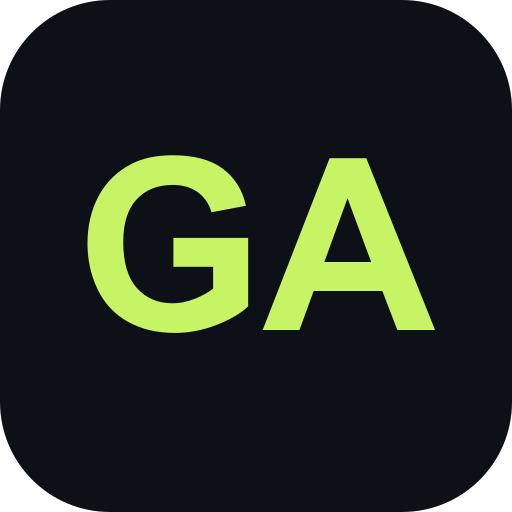
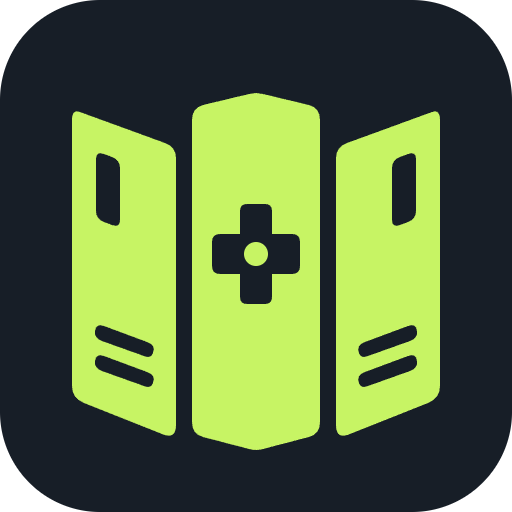
Apply Atlas Library branding across the Windows app and installer

diff --git a/components/desktop-settings.tsx b/components/desktop-settings.tsx
@@ -1,6 +1,7 @@
+import {BrandMark,BrandName} from '@/components/brand';
 import type {UpdateStatus} from '@/desktop/updater';
 import {useEffect,useState} from 'react';
-import {FolderOpen,Download,Upload,Gamepad2} from 'lucide-react';
+import {FolderOpen,Download,Upload} from 'lucide-react';
 import {Dialog,DialogContent,DialogTitle,DialogDescription} from '@/components/ui/dialog';
 import type {Preferences} from '@/desktop/preferences';
 export function DesktopSettings({open,onOpenChange,onReload}:{open:boolean;onOpenChange:(v:boolean)=>void;onReload:()=>Promise<void>}){
@@ -32,10 +33,11 @@ export function DesktopSettings({open,onOpenChange,onReload}:{open:boolean;onOpe
  }
  return <Dialog open={open||wizard||(!preferences&&!!error)} onOpenChange={v=>{if(!wizard&&!busy&&!updating)onOpenChange(v);}}>
   <DialogContent showCloseButton={!wizard} className={wizard?'editor settings-editor setup-wizard':'editor settings-editor'}>
+   <div className="settings-brand"><BrandMark size={40}/><BrandName/></div>
    <DialogTitle>{wizard?'Welcome to GameAtlas':'Settings'}</DialogTitle>
    <DialogDescription>{wizard?(step===0?'Start your own collection or bring an existing library.':'Choose how to protect your collection. You can change this in Settings later.'):'Manage local backups and restore your library.'}</DialogDescription>
    {wizard&&step===0?<div className="setup-choices">
-    <button className="setup-choice" disabled={busy||updating} onClick={()=>void start()}><Gamepad2/><strong>Start a new library</strong><span>Begin with an empty game collection.</span></button>
+    <button className="setup-choice" disabled={busy||updating} onClick={()=>void start()}><BrandMark/><strong>Start a new library</strong><span>Begin with an empty game collection.</span></button>
     <button className="setup-choice" disabled={busy||updating} onClick={()=>void importLibrary()}><Upload/><strong>Import a GameAtlas library</strong><span>Choose a complete backup or an older JSON export.</span></button>
    </div>:preferences&&<>
     <div className="settings-section">

diff --git a/desktop/main.ts b/desktop/main.ts
@@ -146,9 +146,13 @@ app.whenReady().then(async()=>{
  if(smoke){
   try{
    await new Promise(r=>setTimeout(r,1500));
+   mkdirSync(join(app.getPath('temp'),'gameatlas-verification'),{recursive:true});
+   writeFileSync(join(app.getPath('temp'),'gameatlas-verification','welcome.png'),(await window.webContents.capturePage()).toPNG());
    await window.webContents.executeJavaScript(`(async()=>{
     const wait=()=>new Promise(r=>setTimeout(r,200));
     const lib=(await window.gameAtlas.request('/api/library','GET')).data;
+    const marks=[...document.querySelectorAll('img.brand-mark')];
+    if(marks.length<2||marks.some(img=>!img.complete||!img.naturalWidth))throw Error('Brand artwork failed to load');
     if(lib.games.length!==0)throw Error('Fresh install is not blank');
     if(!document.body.textContent.includes('Welcome to GameAtlas'))throw Error('Wizard missing');
     [...document.querySelectorAll('button')].find(b=>b.textContent.includes('Start a new library')).click();await wait();
@@ -165,6 +169,7 @@ app.whenReady().then(async()=>{
     document.querySelector('[aria-label="Settings"]').click();await wait();
     if(document.body.textContent.includes('Properties & backups')||document.body.textContent.includes('Add property'))throw Error('Property controls remain');
    })()`);
+   writeFileSync(join(app.getPath('temp'),'gameatlas-verification','settings.png'),(await window.webContents.capturePage()).toPNG());
    const archivePath=join(app.getPath('temp'),'gameatlas-wizard-'+process.pid+'.gameatlas');
    dialog.showSaveDialog=(async()=>({canceled:false,filePath:archivePath})) as typeof dialog.showSaveDialog;
    dialog.showOpenDialog=(async()=>({canceled:false,filePaths:[archivePath]})) as typeof dialog.showOpenDialog;

diff --git a/app/page.tsx b/app/page.tsx
@@ -1,3 +1,4 @@
+import {BrandMark,BrandName} from '@/components/brand';
 import {DesktopSettings} from '@/components/desktop-settings';
 'use client';
 import {desktopRequest, artworkUrl} from '@/lib/desktop';
@@ -507,7 +508,7 @@ export default function Home() {
     <main className="atlas">
       <header className="masthead">
         <div className="brand">
-          <Gamepad2 /> GameAtlas<span>PERSONAL LIBRARY</span>
+          <BrandMark size={42}/><BrandName/><span>PERSONAL LIBRARY</span>
         </div>
         <div className="header-actions">
           <button
@@ -690,7 +691,7 @@ export default function Home() {
           </div>
         ) : !filtered.length ? (
           <Empty className="empty-state">
-            <Gamepad2 size={40} />
+            <BrandMark size={48}/>
             <EmptyTitle>No games here yet</EmptyTitle>
             <EmptyDescription>
               {query ||
@@ -809,7 +810,7 @@ export default function Home() {
         )}
         <footer>
           <span>
-            GameAtlas <span className="footer-dot">•</span> Your collection,
+            <BrandMark size={22}/><BrandName/> <span className="footer-dot">•</span> Your collection,
             your way.
           </span>
 

diff --git a/app/globals.css b/app/globals.css
@@ -1075,3 +1075,11 @@ footer {
 .setup-wizard [data-slot="dialog-close"]{display:none}
 
 .update-controls { display: flex; align-items: center; flex-wrap: wrap; gap: 16px; }
+
+/* Atlas Library branding: shared with the Windows icon. */
+.brand-mark{display:inline-block;flex-shrink:0;vertical-align:middle;object-fit:contain}
+.brand-name{font-weight:750;letter-spacing:-.045em;white-space:nowrap;color:#edf2f6}
+.brand-name strong{font-weight:inherit;color:#c7f464}
+.settings-brand{display:flex;align-items:center;gap:10px;font-size:25px;margin-bottom:4px}
+footer .brand-mark{margin-right:7px}
+footer .brand-name{font-size:inherit}

diff --git a/components/brand.tsx b/components/brand.tsx
@@ -1,0 +1,6 @@
+export function BrandMark({size=32}:{size?:number}) {
+ return <img className="brand-mark" src="./brand-mark.svg" width={size} height={size} alt="" aria-hidden="true"/>;
+}
+export function BrandName() {
+ return <b className="brand-name">Game<strong>Atlas</strong></b>;
+}

diff --git a/README.md b/README.md
@@ -1,5 +1,7 @@
 # GameAtlas for Windows
 
+![GameAtlas Atlas Library emblem](public/icon-512.png)
+
 GameAtlas is an offline-first Windows game collection app with cards, list view, score colours, filters, wishlists, descriptions, and online game lookup.
 
 ## Install and first run
@@ -37,6 +39,9 @@ Machine-specific settings and nested backup histories are not included in a libr
 The live database and image cache normally live in %APPDATA%/GameAtlas, separately from this repository and the installer. Keep the live database outside cloud-sync folders. Installer upgrades preserve it; uninstall does not deliberately remove it.
 
 Internet is required only for lookup, uncached artwork, opening external links, and checking for application updates.
+
+## Branding
+The Atlas Library emblem uses the existing lime (#c7f464) and charcoal palette. public/brand-mark.svg is the scalable master used in the app. Run npm run build:branding to regenerate the Windows icon and PNG from that master. The icon includes sizes from 16 through 256 pixels for Windows, plus a 512-pixel PNG.
 
 ## Development
 Use Node.js 22.13 or newer on Windows:
